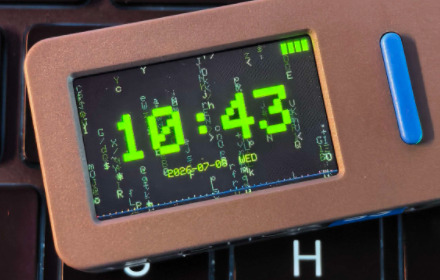
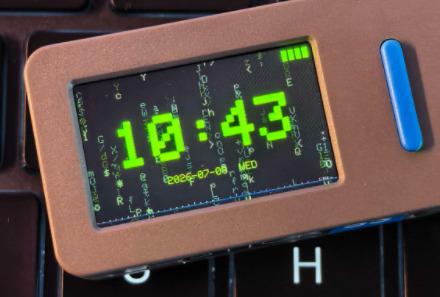
docs: add the Cardputer photo, show both targets side by side
Cardputer: Ember Orange theme, FULL mode, 22:35 / 2026-07-08 WED, keyboard
visible below the screen. Cropped to 588x398 so it matches the StickS3 shot's
aspect ratio in the two-up README table (440x297 -> re-cropped from 440x280).
ROADMAP item 9 re-scoped: the remaining gap is a wider Cardputer shot and the
four themes with no photo yet.

diff --git a/README.md b/README.md
@@ -6,9 +6,12 @@
 
 > *On the desk it is a HUD. In the hand it is an instrument.*
 
-![CYBER CLOCK on an M5StickS3 — Matrix Green theme in FULL mode: the time 10:43, the date 2026-07-08 WED, a full battery indicator and the digital rain behind it](docs/images/cyber-clock-sticks3-matrix-green.jpg)
+| M5StickS3 — Matrix Green, `FULL` mode | M5Cardputer — Ember Orange, `FULL` mode |
+|---|---|
+| ![CYBER CLOCK on an M5StickS3: the time 10:43, the date 2026-07-08 WED, a full battery indicator and the digital rain behind it](docs/images/cyber-clock-sticks3-matrix-green.jpg) | ![CYBER CLOCK on an M5Cardputer: the time 22:35 in amber over the green rain, the date 2026-07-08 WED, and the black oval keys of the Cardputer keyboard below](docs/images/cyber-clock-cardputer-ember-orange.jpg) |
+| Two buttons. Light Sleep with hardware wake. | Physical keyboard. 80 MHz + 1 fps is its floor. |
 
-*M5StickS3 · Matrix Green theme · `FULL` mode (v1.0.1 build; the UI is unchanged in v1.1.0).*
+*Both photos: `FULL` mode, v1.0.1 build, taken 2026-07-08 — the UI is unchanged in v1.1.0.*
 
 Both firmware builds live in this repository: `src/` is the **M5StickS3** build (two buttons), `cardputer/` is the **M5Cardputer** build (physical keyboard, same UI). They share one code base — the graphics, rain engine, themes, WiFi provisioning and timezone picker are the same code; only the input layer and the sleep depth differ.
 

diff --git a/README_CN.md b/README_CN.md
@@ -6,9 +6,12 @@
 
 > *放桌上是一条 HUD，拿手里是一块仪表。*
 
-![CYBER CLOCK 运行在 M5StickS3 上——Matrix Green 主题、FULL 模式：时间 10:43、日期 2026-07-08 WED、满格电量，背景是数字雨](docs/images/cyber-clock-sticks3-matrix-green.jpg)
+| M5StickS3 —— Matrix Green，`FULL` 模式 | M5Cardputer —— Ember Orange，`FULL` 模式 |
+|---|---|
+| ![M5StickS3 上的 CYBER CLOCK：时间 10:43、日期 2026-07-08 WED、满格电量，背景是数字雨](docs/images/cyber-clock-sticks3-matrix-green.jpg) | ![M5Cardputer 上的 CYBER CLOCK：琥珀色的 22:35 压在绿色数字雨上，日期 2026-07-08 WED，屏幕下方是 Cardputer 的黑色椭圆按键](docs/images/cyber-clock-cardputer-ember-orange.jpg) |
+| 双按键。可进 Light Sleep + 硬件唤醒。 | 物理键盘。下限是 80MHz + 1fps。 |
 
-*M5StickS3 · Matrix Green 主题 · `FULL` 模式（v1.0.1 构建；v1.1.0 界面零变化）。*
+*两张图均为 `FULL` 模式、v1.0.1 构建、2026-07-08 拍摄；v1.1.0 界面零变化。*
 
 两个固件版本都在本仓库：`src/` 是 **M5StickS3** 版（双按键），`cardputer/` 是 **M5Cardputer** 版（物理键盘，界面完全一致）。两者共用同一套代码——画面、数字雨引擎、主题、配网、时区选择都是同一份实现，只有输入层和最深的睡眠档不同。
 

diff --git a/ROADMAP.md b/ROADMAP.md
@@ -122,19 +122,18 @@ maintainer).
 
 ---
 
-## 9. A Cardputer photo for the README
+## 9. More photos
 
-**What:** the StickS3 shot is in —
-`docs/images/cyber-clock-sticks3-matrix-green.jpg` (Matrix Green, `FULL` mode,
-taken 2026-07-08). The Cardputer build still has no photo, so the README shows
-only one of the two targets.
+**What:** both targets now have a photo in the README (`docs/images/` — Matrix
+Green on the StickS3, Ember Orange on the Cardputer, both `FULL` mode, taken
+2026-07-08). Two gaps remain: the other four themes have no picture at all, and
+the Cardputer shot is a close-up whose keyboard is cropped at the bottom.
 
-**Done when:** a Cardputer shot (`FULL` mode, dark background, any of the six
-themes) is committed under `docs/images/`, embedded next to the StickS3 one, with
-the theme named in the caption. A second StickS3 shot in a different theme would
-also be welcome.
+**Done when:** either a wider Cardputer shot that shows the whole keyboard, or a
+`SAVER` / dark-room shot in `Night Red` — committed under `docs/images/` and
+embedded next to the existing two with the theme named in the caption.
 
-**Needs a device:** yes — a Cardputer, plus a camera.
+**Needs a device:** yes, plus a camera.
 
 ---
 

diff --git a/ROADMAP_CN.md b/ROADMAP_CN.md
@@ -88,15 +88,13 @@
 
 ---
 
-## 9. README 配图（还缺 Cardputer）
+## 9. 再补几张图
 
-**内容：** StickS3 的实拍已经进仓库了——
-`docs/images/cyber-clock-sticks3-matrix-green.jpg`（Matrix Green，`FULL` 模式，2026-07-08 拍摄）。
-Cardputer 版本还没有照片，所以 README 目前只展示了两台设备中的一台。
+**内容：** 两个版本的实拍都已经进 README 了（`docs/images/`——StickS3 是 Matrix Green，Cardputer 是 Ember Orange，都是 `FULL` 模式，2026-07-08 拍摄）。还差两处：另外四套主题一张图都没有；Cardputer 那张是特写，键盘底部被裁掉了。
 
-**完成标准：** Cardputer 实拍（`FULL` 模式、深色背景、六套主题里任选一套）放进 `docs/images/`，与 StickS3 那张并列嵌入，图注写明主题名。再补一张不同主题的 StickS3 也欢迎。
+**完成标准：** 要么来一张能看全键盘的 Cardputer 远景，要么来一张 `SAVER` / `Night Red` 暗室照——放进 `docs/images/`，与现有两张并列嵌入，图注写明主题名。
 
-**需要实机：** 是——一台 Cardputer，外加一台相机。
+**需要实机：** 是，外加一台相机。
 
 ---
 
